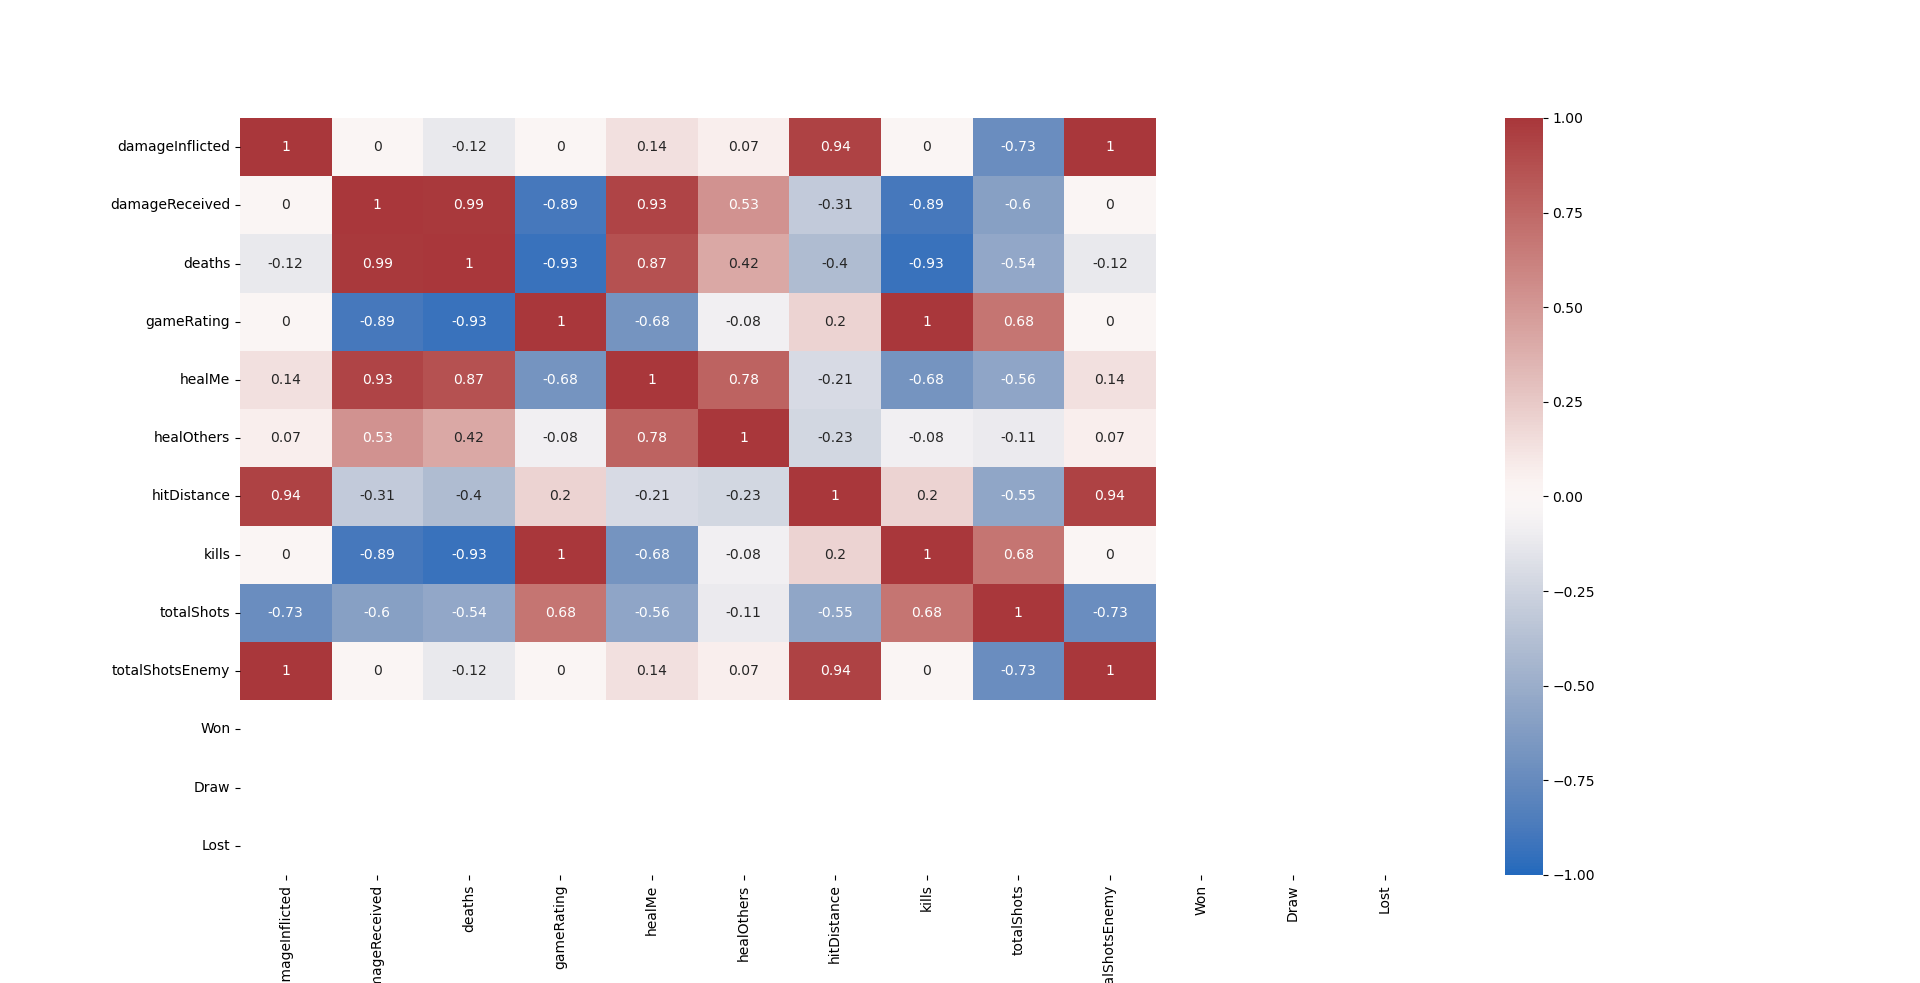
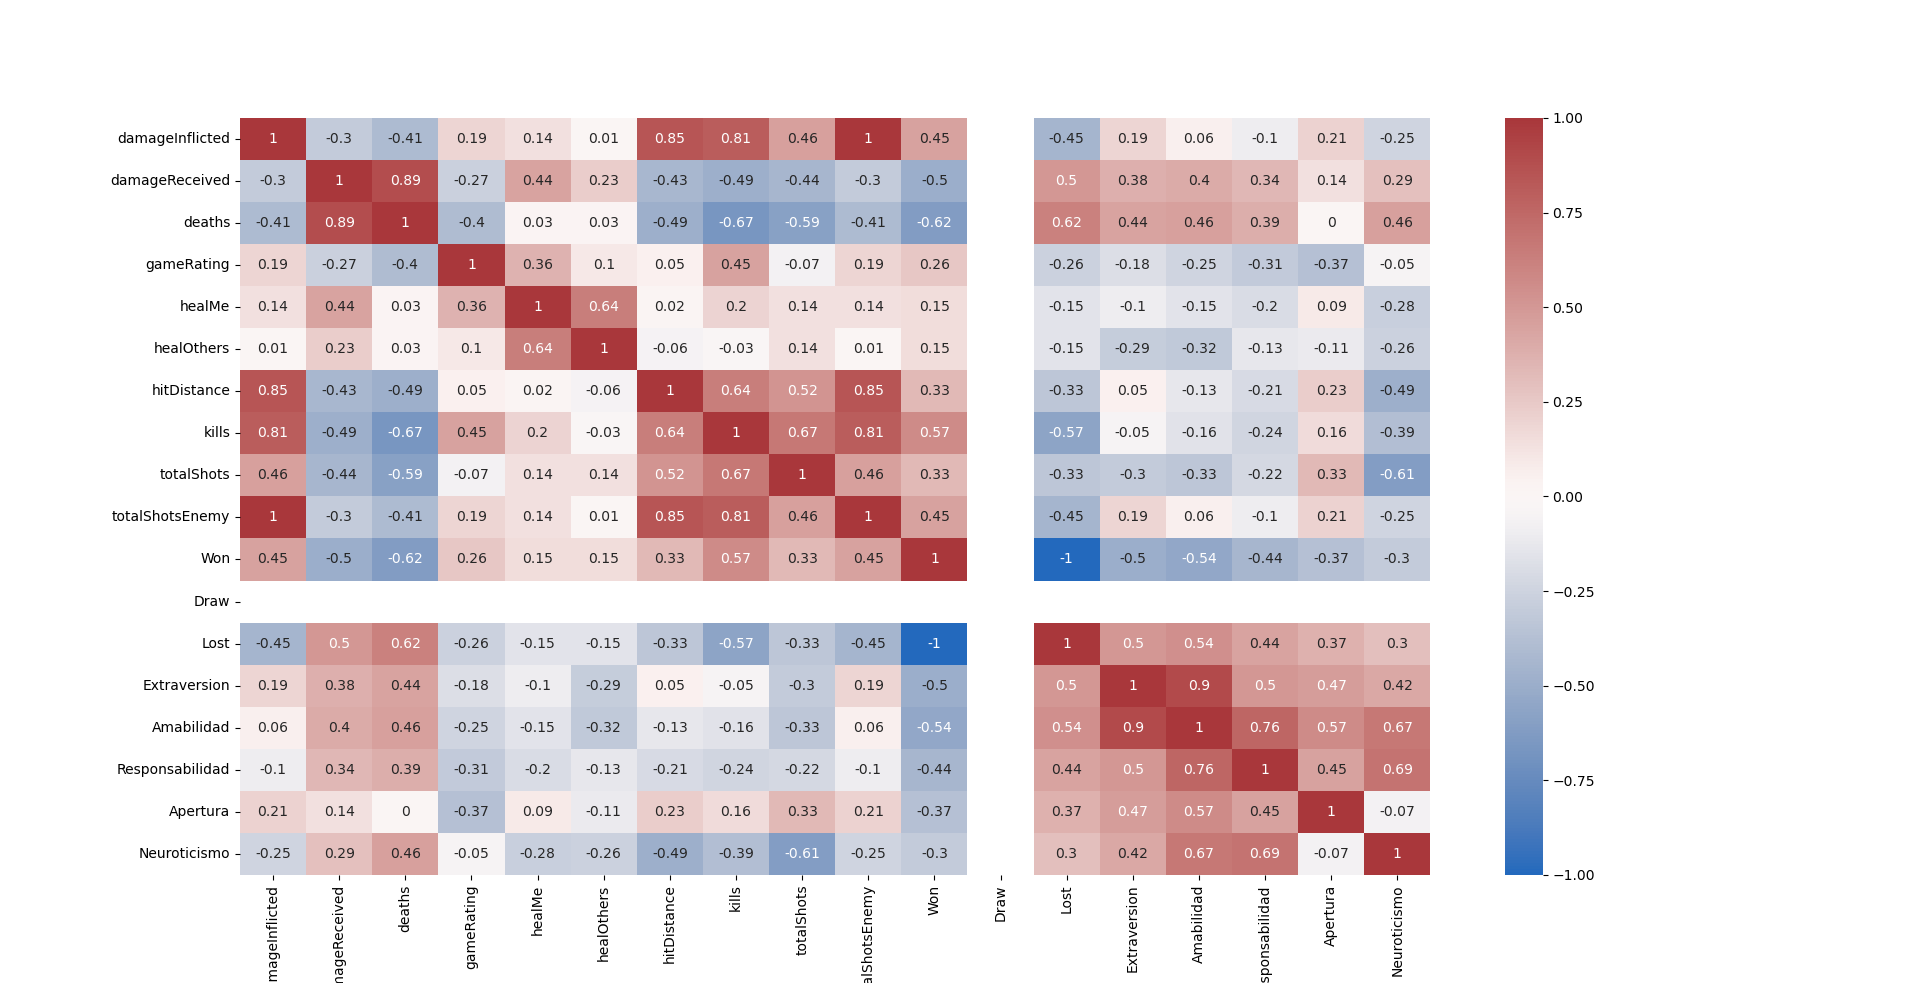
Ya esta la ultima tabla

diff --git a/Correlacion Python/matrixCorrelationFinal.py b/Correlacion Python/matrixCorrelationFinal.py
@@ -33,7 +33,6 @@ def Firebase(dic, data, variableNames, user_names):
     for v in variableNames:
         dic[v] = []
 
-    index = 0
     # Guardamos los datos
     for p in data['Matches']: #Partida0, 1, 2, etc  
         result = data['Matches'][p]['pointsRed'] - data['Matches'][p]['pointsBlue']
@@ -42,10 +41,6 @@ def Firebase(dic, data, variableNames, user_names):
             winner_team = 0
         elif result < 0: # Blue won
             winner_team = 1
-
-        # Default value
-        for v in variableNames:
-            dic[v] = np.concatenate((dic[v], [0])) # anyadimos una columna/team mas al diccionario
 
         # Guardamos nombres de integrantes en cada equipo
         for u in data['Matches'][p]:
@@ -59,15 +54,21 @@ def Firebase(dic, data, variableNames, user_names):
                 # GUARDAR DATOS
                 for v in variableNames:
                     if v != 'Won' and v != 'Draw' and v != 'Lost':
-                        dic[v][index] = data['Matches'][p][u][v]
-                    else:
+                        dic[v] = np.concatenate((dic[v], [data['Matches'][p][u][v]]))
+                    elif v == 'Won':
                         if winner_team == data['Matches'][p][u]['t']:
-                            dic['Won'][index] = 1
+                            dic['Won'] =  np.concatenate((dic['Won'], [1]))
+                            dic['Draw'] = np.concatenate((dic['Draw'], [0]))
+                            dic['Lost'] =  np.concatenate((dic['Lost'], [0]))
                         elif winner_team == -1:
-                            dic['Draw'][index] = 1
+                            dic['Draw'] = np.concatenate((dic['Draw'], [1]))
+                            dic['Won'] =  np.concatenate((dic['Won'], [0]))
+                            dic['Lost'] =  np.concatenate((dic['Lost'], [0]))
                         else:
-                            dic['Lost'][index] = 1
-        index += 1
+                            dic['Lost'] =  np.concatenate((dic['Lost'], [1]))
+                            dic['Won'] =  np.concatenate((dic['Won'], [0]))
+                            dic['Draw'] = np.concatenate((dic['Draw'], [0]))
+      
 
     return dic, variableNames, user_names
 
@@ -162,6 +163,7 @@ def main():
     # Añadir los datos de Big Five al dicionario
     dic, variableNames = BigFive(dic, user_names, big_five_file, variableNames)
 
+    print(5)
     # form dataframe
     df = pd.DataFrame(dic, columns=variableNames) # EMPTY DATAFRAME???????????'
 
